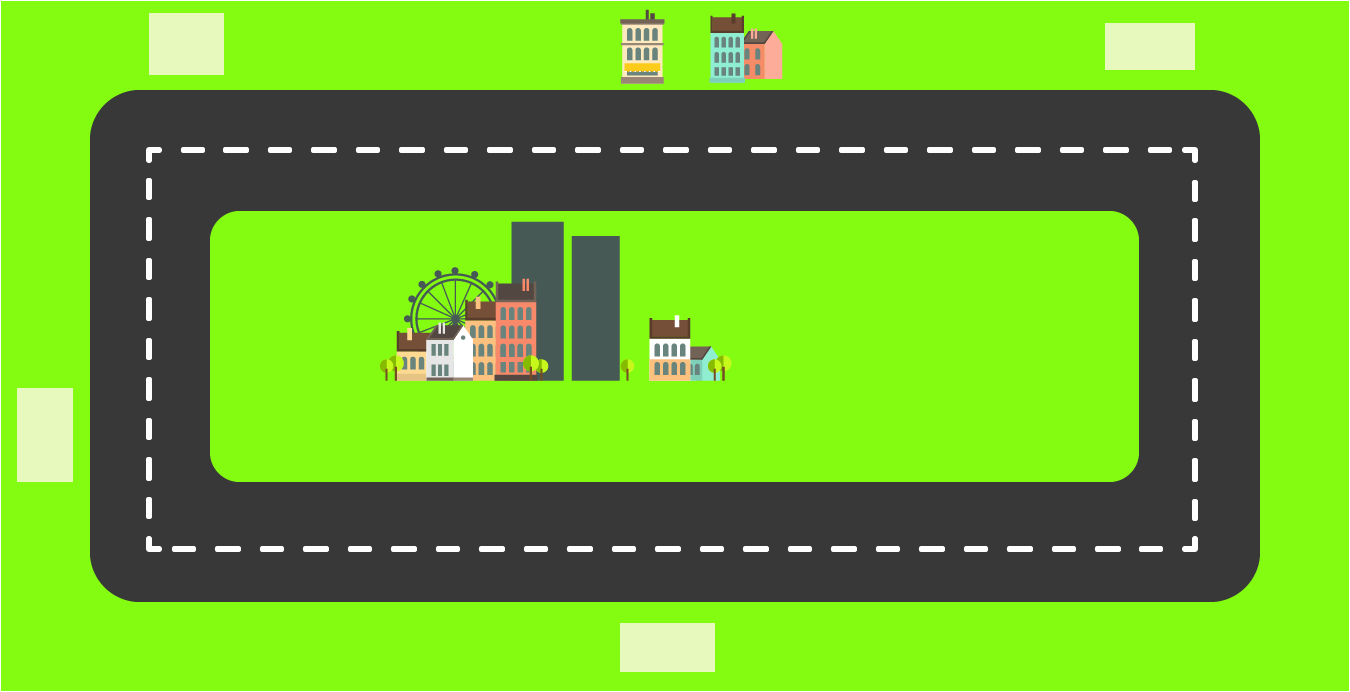
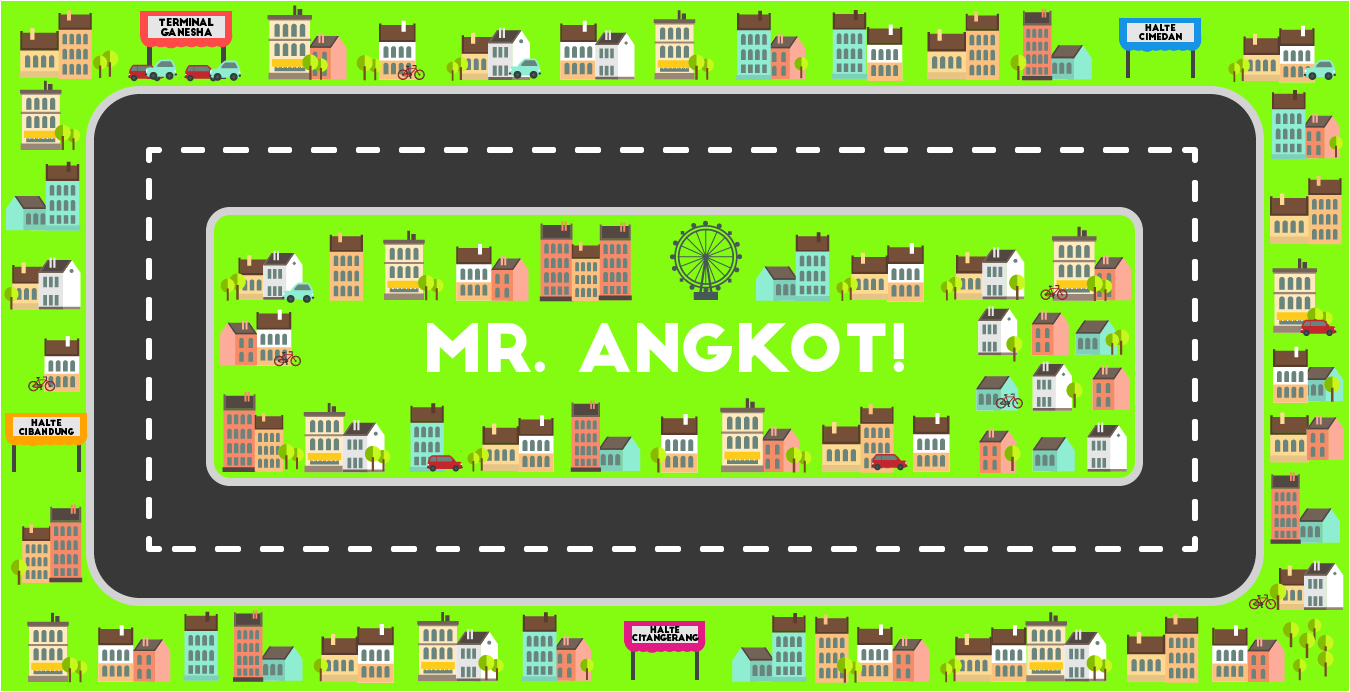
Background and angkot design fixed
Images source in folder img

diff --git a/src/mr/angkot/MrAngkot.java b/src/mr/angkot/MrAngkot.java
@@ -6,7 +6,12 @@
 package mr.angkot;
 
 import javax.swing.*;
+import javax.imageio.*;
 import java.awt.*;
+import java.awt.event.*;
+import java.net.URL;
+import java.awt.image.*;
+import java.io.*;
 
 /**
  *
@@ -15,7 +20,7 @@ import java.awt.*;
 public class MrAngkot extends JFrame {
   
   public MrAngkot() {
-    super("Mr. Angkot !");
+    super("Mr. Angkot!");
     setSize(1366, 730);
     setDefaultCloseOperation(EXIT_ON_CLOSE);
 
@@ -42,18 +47,23 @@ public class MrAngkot extends JFrame {
     bottom.setBounds(60, 60, 50, 50); */
     
     // Background
-    Background background = new Background();
-    background.setBounds(0,0,1366,730);
-    
+    try {
+        this.setContentPane(new JLabel(new ImageIcon(ImageIO.read(new File("img/bg.png")))));
+    } catch (IOException e) {
+    };
+//    Background background = new Background();
+//    background.setBounds(0,0,1366,730);
+//    lp.add(background,new Integer(0));    
+
     Angkot a1 = new Angkot();
     a1.setBounds(0, 0, 1366, 730);
     
     // Place the buttons in different layers
-    lp.add(background,new Integer(0));
     lp.add(a1, new Integer(1));
     lp.add(terminal1, new Integer(2));
     lp.add(terminal2, new Integer(3));
     lp.add(terminal3, new Integer(4));
+    
   }
   
   /**

diff --git a/src/mr/angkot/Angkot.java b/src/mr/angkot/Angkot.java
@@ -92,12 +92,12 @@ public class Angkot extends JComponent implements Runnable {
       transform.rotate(Math.PI/2, x + 100/2, y + 50/2);
       AffineTransform old = g2d.getTransform();
       g2d.transform(transform);
-      g2d.setColor(Color.BLUE);
+      g2d.setColor(Color.YELLOW);
       g2d.fillRect ((int) x, (int) y, 100, 50);
       g2d.setTransform(old);
     }
     else {  // Angkot di sisi atas atau sisi bawah
-      g2d.setColor(Color.BLUE);
+      g2d.setColor(Color.YELLOW);
       g2d.fillRect ((int) x, (int) y, 100, 50);
     }
     
